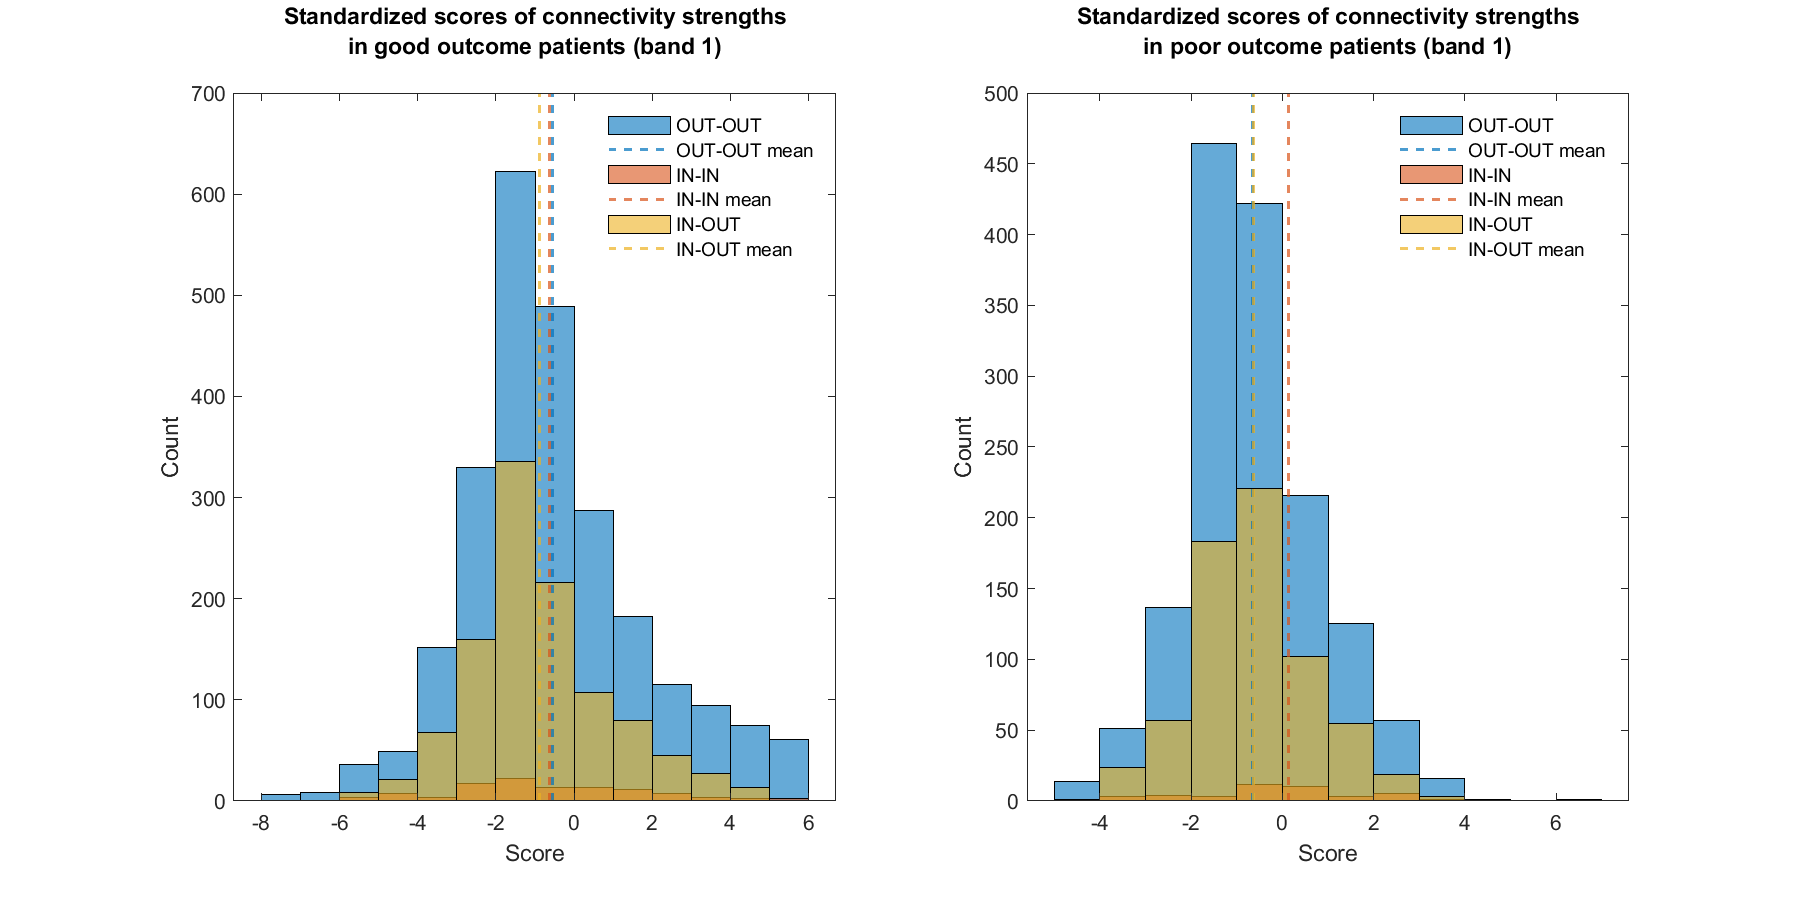
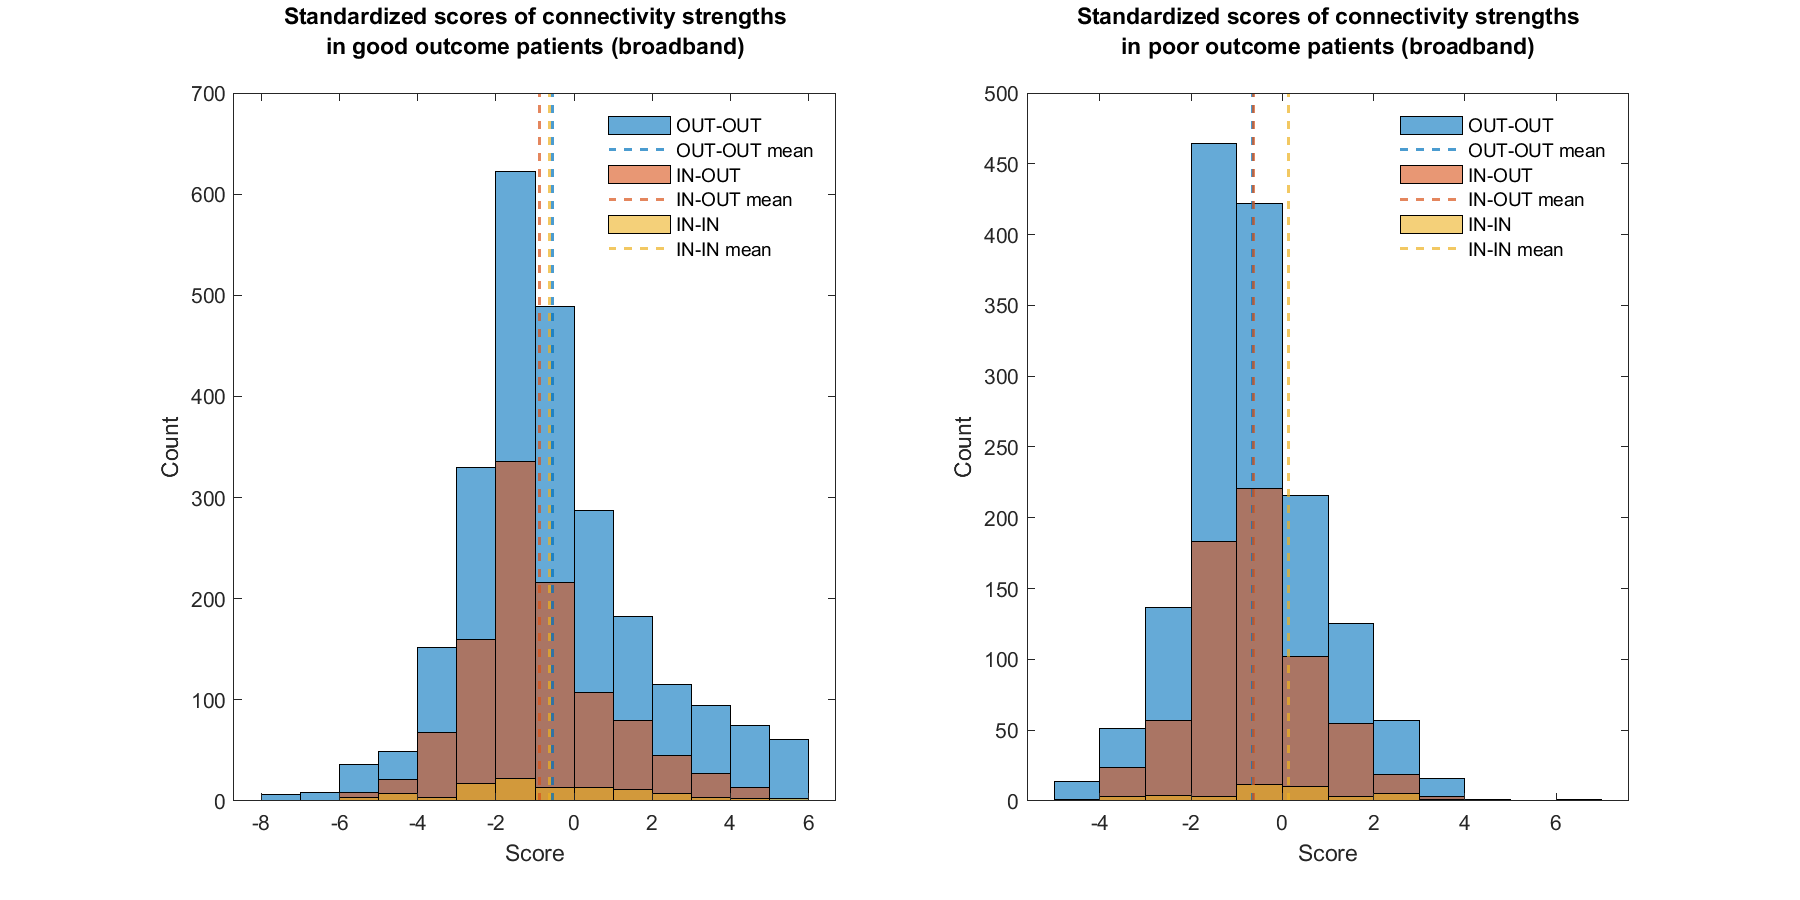
statistical testing for cross-validation

diff --git a/analysis/create_project_figures.m b/analysis/create_project_figures.m
@@ -98,6 +98,9 @@ poor_patient_indices = find([hasData_field{:}] & strcmp(outcome_field,'poor'));
 threshold_results = NaN(num_good_patients,5);
 threshold_accuracies = NaN(num_good_patients,5);
 
+% to hold rank-sum test results
+validation_test_results = cell(5,9);
+
 % to hold logistic regression results
 mnr_results = cell(5,3);
 mdl_results = cell(5,1);
@@ -134,9 +137,6 @@ for test_band = 1:5
     %good_z_score_mean = nanmean(cat(3,good_z_score_results{:}),3);
     %good_resected_z_score_mean = nanmean(cat(3,good_resected_z_score_results{:}),3);
 
-    % save results to output folder
-    %save('output/figure_2B_good_data.mat','good_z_score_mean','good_resected_z_score_mean')
-
     % repeat cross-validation for poor outcome patients
 
     % calculate atlas for good outcome patients only
@@ -163,9 +163,6 @@ for test_band = 1:5
     %poor_z_score_mean = mean(cat(3,poor_z_score_results{:}),3,'omitnan');
     %poor_resected_z_score_mean = mean(cat(3,poor_resected_z_score_results{:}),3,'omitnan');
 
-    % save results to output folder
-    %save('output/figure_2B_poor_data.mat','poor_z_score_mean','poor_resected_z_score_mean')
-
     figure
     set(gcf,'Units','inches','Position',[(screen_dims(3)-figure_width)/2, 2, figure_width, 6])
     
@@ -175,10 +172,11 @@ for test_band = 1:5
     poor_scores = {all_patients(poor_patient_indices).z_scores};
     sub_groups = {good_scores, poor_scores};
     
-    edge_groups = {'out_out','in_in','in_out'};
+    edge_groups = {'out_out','in_out','in_in'};
+    edge_pairs = {'out_out','in_in';'out_out','in_out';'in_out','in_in'};
     colors = {'#0072BD','#D95319','#EDB120'};
-    titles = {{sprintf('Standardized scores of connectivity strengths\nin good outcome patients (band %d)',test_band),''}, ...
-        {sprintf('Standardized scores of connectivity strengths\nin poor outcome patients (band %d)',test_band),''}};
+    titles = {{sprintf('Standardized scores of connectivity strengths\nin good outcome patients (%s)',band_names{test_band}),''}, ...
+        {sprintf('Standardized scores of connectivity strengths\nin poor outcome patients (%s)',band_names{test_band}),''}};
     
     % plot ALL z-score results for GOOD and POOR outcome patients
     
@@ -206,7 +204,7 @@ for test_band = 1:5
         ylabel('Count')
         xlabel('Score')
 
-        legend('OUT-OUT','OUT-OUT mean','IN-IN','IN-IN mean','IN-OUT','IN-OUT mean')
+        legend('OUT-OUT','OUT-OUT mean','IN-OUT','IN-OUT mean','IN-IN','IN-IN mean')
         legend('Location','northeast','Box','off')
 
         hold off
@@ -215,26 +213,40 @@ for test_band = 1:5
     save_name = sprintf('output/supplemental_figures/z_score_histogram_band_%d.png',test_band);
     saveas(gcf,save_name) % save plot to output folder
 
-    % TODO: Statistical testing on z-score distributions
-%     fprintf('\n\n===== TESTS ON BAND %d =====\n', test_band)
-%     
-%     fprintf('\n=== Wilcoxon rank sum test ===\n')
-%     fprintf('H0: The z-scores of non-resected regions in good and poor outcome patients come from distributions with equal medians.\n')
-%     [p,h] = ranksum(good_plot_data,poor_plot_data,'Alpha',0.05);
-%     fprintf('p-value = %d',p)
-%     if h, fprintf('*'); end
-%     fprintf('\nH0: The z-scores of resected regions in good and poor outcome patients come from distributions with equal medians.\n')
-%     [p,h] = ranksum(good_resected_plot_data,poor_resected_plot_data,'Alpha',0.05);
-%     fprintf('p-value = %d',p)
-%     if h, fprintf('*'); end
-%     fprintf('\nH0: The median z-scores of non-resected regions and resected regions in good outcome patients are equal.\n')
-%     [p,h] = ranksum(good_resected_plot_data,good_plot_data,'Alpha',0.05);
-%     fprintf('p-value = %d',p)
-%     if h, fprintf('*'); end
-%     fprintf('\nH0: The median z-scores of non-resected regions and resected regions in poor outcome patients are equal.\n')
-%     [p,h] = ranksum(poor_resected_plot_data,poor_plot_data,'Alpha',0.05);
-%     fprintf('p-value = %d',p)
-%     if h, fprintf('*'); end
+    % Statistical testing on z-score distributions
+    % test edge type distributions within outcome group
+    for j = 1:length(sub_groups)
+        for k = 1:length(edge_pairs)
+            edge_pair = edge_pairs(k,:);
+            distribs = cell(1,2);
+            for m = 1:2
+                get_score_data = @(x) x(test_band).data.(edge_pair{m})(triu(true(size(x(test_band).data.(edge_pair{1})))));
+                distrib = cellfun(get_score_data,sub_groups{j},'UniformOutput',false);
+                distrib = cell2mat(distrib);
+                distrib = distrib(:);
+                distrib = distrib(~isnan(distrib) & ~isinf(distrib));
+                distribs{m} = distrib;
+            end
+            [p,h] = ranksum(distribs{1},distribs{2},'Alpha',0.05);
+            validation_test_results{test_band,k+((j-1)*(length(edge_pairs)))} = ...
+                sprintf('%.5f%s',p,char(42*h));
+        end
+    end
+    % test the same edge type distributions between outcome groups
+    for j = 1:length(edge_groups)
+        distribs = cell(1,2);
+        for m = 1:length(sub_groups)
+            get_score_data = @(x) x(test_band).data.(edge_groups{j})(triu(true(size(x(test_band).data.(edge_pair{1})))));
+            distrib = cellfun(get_score_data,sub_groups{m},'UniformOutput',false);
+            distrib = cell2mat(distrib);
+            distrib = distrib(:);
+            distrib = distrib(~isnan(distrib) & ~isinf(distrib));
+            distribs{m} = distrib;
+        end
+        [p,h] = ranksum(distribs{1},distribs{2},'Alpha',0.05);
+            validation_test_results{test_band,j+(length(sub_groups)*(length(edge_pairs)))} = ...
+                sprintf('%.5f%s',p,char(42*h));
+    end
 
     % TODO: logistic regression
     % predictors: distance between mean resected and mean non-resected 
@@ -290,6 +302,16 @@ fprintf('\n')
 
 % get average threshold values for each band
 avg_thresholds = nanmean(threshold_results,1);
+
+validation_test_result_table = cell2table(validation_test_results, ...
+    'VariableNames',{'OUT-OUT to IN-IN (good)', 'OUT-OUT to IN-OUT (good)', ...
+    'IN-OUT to IN-IN (good)','OUT-OUT to IN-IN (poor)','OUT-OUT to IN-OUT (poor)', ...
+    'IN-OUT to IN-IN (poor)', 'OUT-OUT to OUT-OUT (between)', 'IN-OUT to IN-OUT (between)', ...
+    'IN-IN to IN-IN (between)'},'RowNames',band_names);
+
+writetable(validation_test_result_table,'output/supplemental_figures/validation_test_results.xlsx','WriteRowNames',true)
+
+fprintf('Statistical test results saved.\n')
 
 % remove some variables from memory
 vars = {'B','get_average_data','good_distances','good_means', ...
